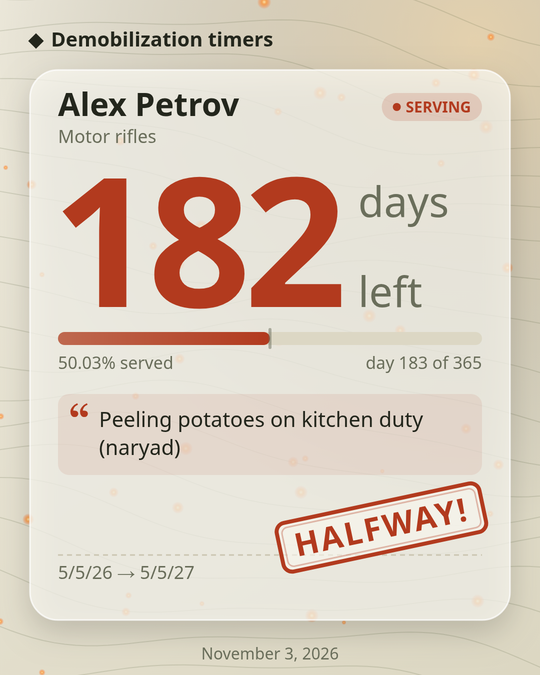
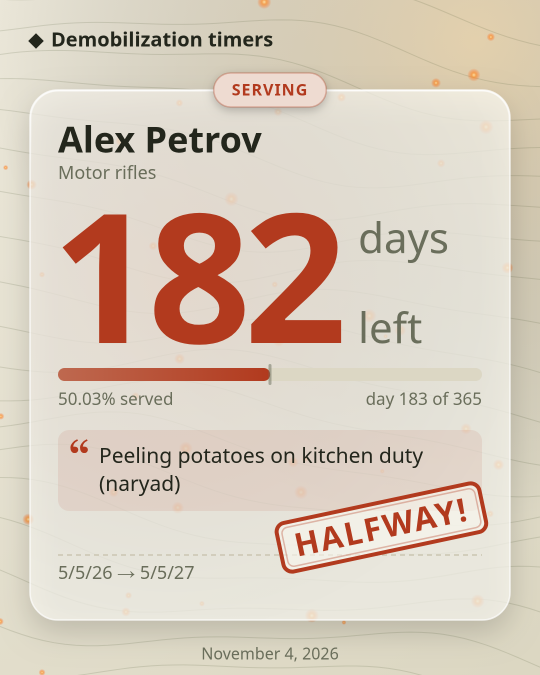
Shared picture laid out like the card: state chip centered on the top edge, dashed edge for call-ups, a softer glow; README

Changed region(s): [[0.0593, 0.0933, 0.9481, 0.7467]]

diff --git a/public/share.js b/public/share.js
@@ -21,9 +21,9 @@
 const { t } = I18N;
 const PAL = { // the site's own colors, per theme; state accents follow the theme too
   light: { bg: ['#ece8da', '#dcd7c2'], line: 'rgba(74,84,52,.16)', surface: 'rgba(250,248,240,.74)', edge: 'rgba(255,255,255,.75)', ink: '#23261c', mute: '#6a6e5b',
-    track: '#dcd7c4', dash: '#cbc6b2', glow: 'rgba(222,170,92,.30)', paper: 'rgba(250,248,240,.6)', wait: '#4f8a3a', soon: '#c86a14', summons: '#a5761a' },
+    track: '#dcd7c4', dash: '#cbc6b2', glow: 'rgba(222,170,92,.30)', paper: 'rgba(250,248,240,.6)', solid: '#f8f6ef', hi: 'rgba(255,255,255,.75)', wait: '#4f8a3a', soon: '#c86a14', summons: '#a5761a' },
   dark: { bg: ['#171a12', '#1f2418'], line: 'rgba(196,206,160,.08)', surface: 'rgba(36,40,30,.74)', edge: 'rgba(255,255,255,.09)', ink: '#e9e6d7', mute: '#9b9e88',
-    track: '#2a2f23', dash: '#30352a', glow: 'rgba(224,140,64,.12)', paper: 'rgba(36,40,30,.6)', wait: '#8fc27a', soon: '#f0a050', summons: '#dcae55' },
+    track: '#2a2f23', dash: '#30352a', glow: 'rgba(224,140,64,.12)', paper: 'rgba(36,40,30,.6)', solid: '#1d2117', hi: 'rgba(255,255,255,.08)', wait: '#8fc27a', soon: '#f0a050', summons: '#dcae55' },
 };
 const SANS = 'system-ui,-apple-system,"Segoe UI",Roboto,"Noto Sans",sans-serif';
 const STATE = { 'is-wait': 'wait', 'is-soon': 'soon', 'is-summons': 'summons', 'is-notice': 'summons' };
@@ -38,7 +38,7 @@ function read(c) {
     accent: getComputedStyle(c).getPropertyValue('--accent').trim() || '#b23a1e',
     big: txt('.count .days'), units, done: txt('.done'), sub: txt('.sub'),
     bar: bar && { pct: +bar.getAttribute('aria-valuenow'), l: txt('.meta span:first-child'), r: txt('.meta span:last-child') },
-    status: c.dataset.status || '', stamp: txt('.stamp'), bigStamp: !!q('.stamp.big'),
+    dashed: c.matches('.is-summons,.is-notice'), status: c.dataset.status || '', stamp: txt('.stamp'), bigStamp: !!q('.stamp.big'),
     dates: dates && (dates.querySelector('span')?.textContent || dates.textContent).trim() };
 }
 
@@ -64,17 +64,25 @@ function draw(cv, d, o) {
   const M = 60, T0 = o.fmt === 'story' ? 365 : 80;
   x.fillStyle = P.ink; x.save(); x.translate(M + 12, T0 + 2); x.rotate(Math.PI / 4); x.fillRect(-11, -11, 22, 22); x.restore();
   x.textBaseline = 'middle'; font(700, 40); x.fillText(fit(o.title, W - 2 * M - 42), M + 42, T0 + 2);
-  // the card
-  const cx = M, cy = T0 + 60, cw = W - 2 * M, ch = 1100, ix = cx + 56, iw = cw - 112;
+  // the card, laid out like the one on the page: the state chip sits in the middle of its top edge, half above it
+  const cx = M, cy = T0 + 100, cw = W - 2 * M, ch = 1060, ix = cx + 56, iw = cw - 112;
   x.save(); x.shadowColor = 'rgba(0,0,0,.22)'; x.shadowBlur = 60; x.shadowOffsetY = 24; rr(cx, cy, cw, ch, 56); x.fillStyle = P.surface; x.fill(); x.restore();
-  rr(cx, cy, cw, ch, 56); x.strokeStyle = d.bigStamp ? '#e2a93b' : P.edge; x.lineWidth = d.bigStamp ? 6 : 3; x.stroke();
-  let y = cy + 74;
-  // chip, name, label
-  font(700, 30); const chipW = x.measureText(d.chip.toUpperCase()).width + 60;
-  rr(cx + cw - 56 - chipW, y - 28, chipW, 56, 28); x.fillStyle = alpha(A, .16); x.fill();
-  x.fillStyle = A; x.fillText(d.chip.toUpperCase(), cx + cw - 56 - chipW + 30, y + 2);
-  let ns = 64; font(700, ns); while (ns > 44 && x.measureText(d.name).width > iw - chipW - 24) font(700, --ns);
-  x.fillStyle = P.ink; x.fillText(fit(d.name, iw - chipW - 24), ix, y); y += 62;
+  x.save(); rr(cx, cy, cw, ch, 56); x.clip(); // a soft glow of the state color behind the number, and a sheen along the top
+  g = x.createRadialGradient(cx + cw * .3, cy + 380, 0, cx + cw * .3, cy + 380, cw * .75); g.addColorStop(0, A); g.addColorStop(1, 'rgba(0,0,0,0)');
+  x.globalAlpha = o.theme === 'dark' ? .1 : .08; x.fillStyle = g; x.fillRect(cx, cy, cw, ch); x.globalAlpha = 1;
+  g = x.createLinearGradient(0, cy, 0, cy + 160); g.addColorStop(0, P.hi); g.addColorStop(1, 'rgba(255,255,255,0)'); x.strokeStyle = g; x.lineWidth = 3; rr(cx + 1.5, cy + 1.5, cw - 3, ch - 3, 55); x.stroke(); x.restore();
+  rr(cx, cy, cw, ch, 56);
+  if (d.bigStamp) { x.strokeStyle = '#e2a93b'; x.lineWidth = 6; } else if (d.dashed) { x.strokeStyle = A; x.lineWidth = 4; x.setLineDash([18, 12]); } else { x.strokeStyle = P.edge; x.lineWidth = 3; }
+  x.stroke(); x.setLineDash([]);
+  x.textBaseline = 'middle'; font(700, 32); x.letterSpacing = '2px';
+  const chip = d.chip.toUpperCase(), chipW = Math.min(cw - 120, x.measureText(chip).width + 72), chipX = W / 2 - chipW / 2;
+  x.save(); x.shadowColor = 'rgba(0,0,0,.25)'; x.shadowBlur = 20; x.shadowOffsetY = 6; rr(chipX, cy - 34, chipW, 68, 34); x.fillStyle = P.solid; x.fill(); x.restore();
+  x.fillStyle = A; x.globalAlpha = .14; x.fill(); x.globalAlpha = .3; x.strokeStyle = A; x.lineWidth = 3; x.stroke(); x.globalAlpha = 1;
+  x.textAlign = 'center'; x.fillText(fit(chip, chipW - 72), W / 2, cy + 2); x.textAlign = 'left'; x.letterSpacing = '0px';
+  // name and label, as on the card: the name on one line, the label under it
+  let y = cy + 104;
+  let ns = 72; font(700, ns); while (ns > 48 && x.measureText(d.name).width > iw) font(700, --ns);
+  x.fillStyle = P.ink; x.fillText(fit(d.name, iw), ix, y); y += 64;
   if (d.label) { x.fillStyle = P.mute; font(500, 36); x.fillText(fit(d.label, iw), ix, y); }
   y += 50; x.textBaseline = 'alphabetic';
   if (d.big) { // the number and its unit share the width: the unit is sized to fit, the number shrinks only if the unit would get too small

diff --git a/README.md b/README.md
@@ -8,7 +8,7 @@ No database, no dependencies, no tracking: one Node.js file and one JSON config 
 
 ## What is on the page
 
-**Timer cards.** One card per person: the name on one line with the label under it, the days left, a progress bar and the current day of service. On the last day, hours, minutes and seconds become the big number. The state (civilian, starts soon, serving, home and so on) sits in the middle of the card's top edge, each in its own color.
+**Timer cards.** One card per person: the name on one line with the label under it, the days left, a progress bar and the current day of service. On the last day, hours, minutes and seconds become the big number. The state (civilian, starts soon, serving, home and so on) sits in the middle of the card's top edge, each in its own color. "Starts soon" and "Notice · waiting" blink gently, so they catch the eye.
 
 **Call-up notices.** The start date can be a call-up notice. Until then the card has a "Call-up notice" chip and counts the days until the notice, and its dates end in "?". From that date the card says "Not clear yet" instead of counting down, until the admin confirms that the person has left.
 
@@ -30,7 +30,7 @@ No database, no dependencies, no tracking: one Node.js file and one JSON config 
 - Tap the burning fire five times quickly and see what happens.
 - On the first visit, a short tip explains the button.
 
-**Share as a picture.** Each card has a share button at the end of its dates row. It turns the card into a picture: the page title, the name, the big number, the progress, today's status, the milestone stamp, the dates and the date of the snapshot. Choose light or dark, a post (4:5) or story (9:16) size, and whether to hide the dates, then share it through the phone's share menu or save the PNG. The picture is drawn in the browser, and nothing is sent to the server.
+**Share as a picture.** Each card has a share button at the end of its dates row. It turns the card into a picture laid out like the card itself, with the state on its top edge: the page title, the name, the big number, the progress, today's status, the milestone stamp, the dates and the date of the snapshot. Choose light or dark, a post (4:5) or story (9:16) size, and whether to hide the dates, then share it through the phone's share menu or save the PNG. The picture is drawn in the browser, and nothing is sent to the server.
 
 <p align="center"><img src="docs/screenshots/share.png" alt="A card shared as a picture" width="360"></p>
 
